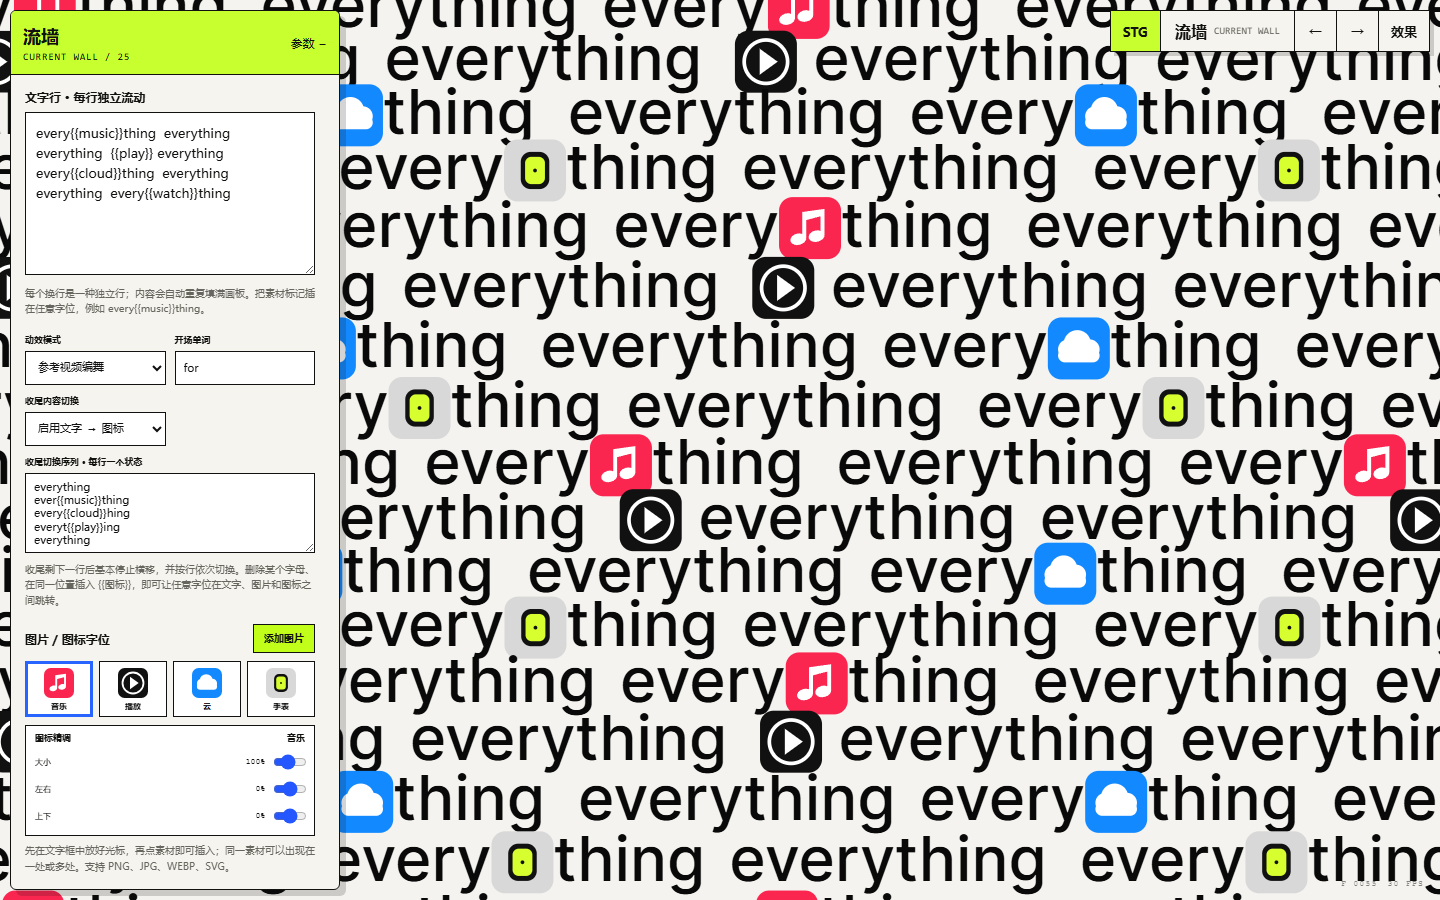
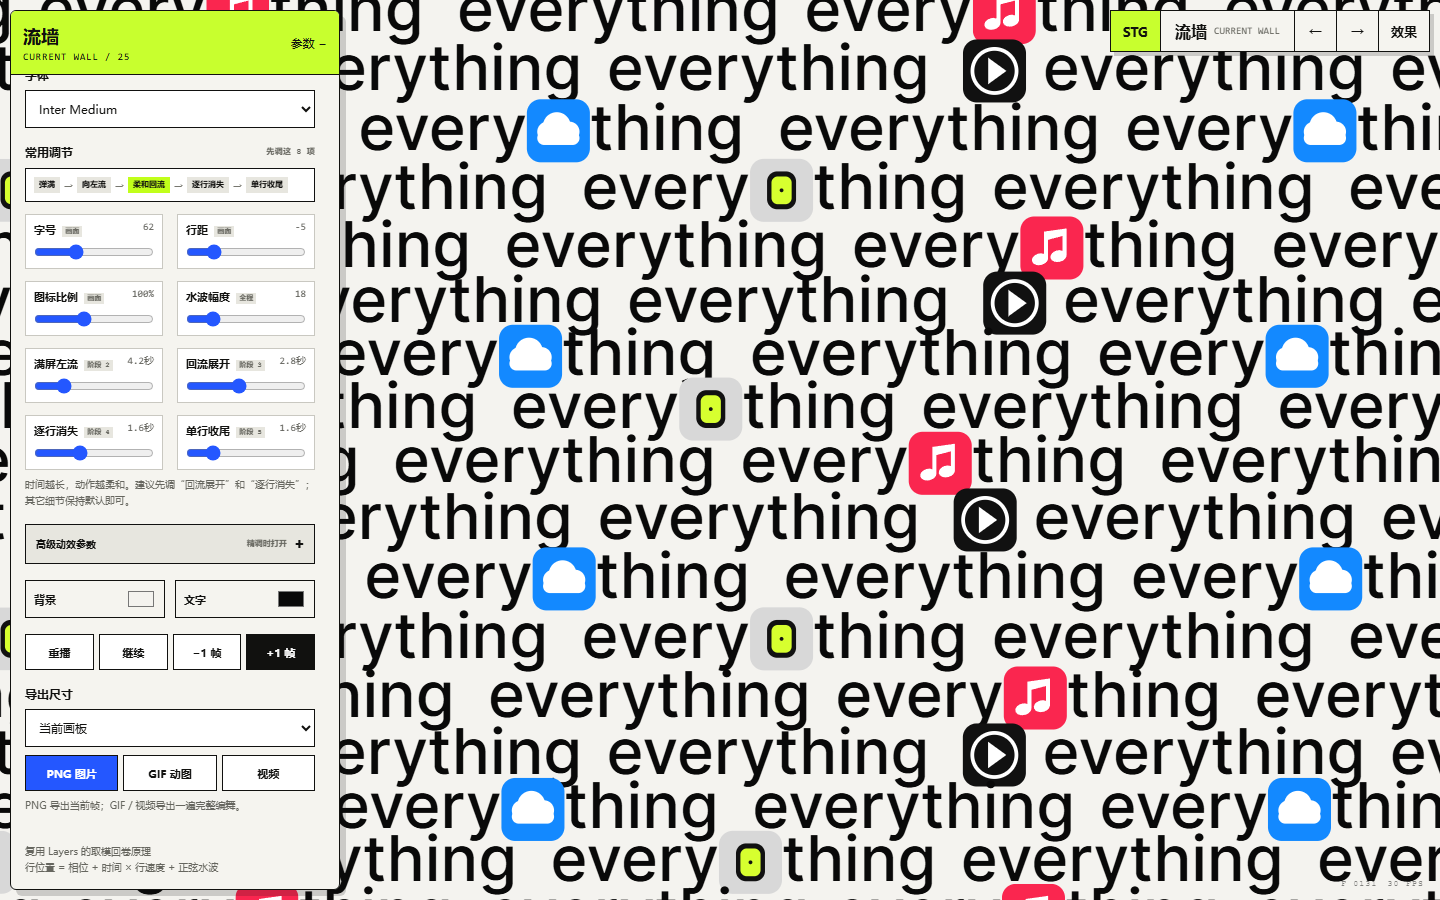
Simplify controls and smooth Current Wall retreat

diff --git a/site/currentwall.html b/site/currentwall.html
@@ -81,10 +81,13 @@ everything</textarea>
         <p class="hint">先在文字框中放好光标，再点素材即可插入；同一素材可以出现在一处或多处。支持 PNG、JPG、WEBP、SVG。</p>
       </section>
 
-      <section>
-        <p class="section-label">每行流向与相位</p>
-        <div class="row-flow-list" id="rowFlowList"></div>
-      </section>
+      <details class="advanced-controls row-advanced">
+        <summary><span>每行独立方向与速度</span><small>高级</small></summary>
+        <div class="advanced-body">
+          <p class="hint advanced-hint">只有需要单独改变某一行的方向、速度或起始位置时才调整这里。</p>
+          <div class="row-flow-list" id="rowFlowList"></div>
+        </div>
+      </details>
 
       <section class="font-picker">
         <label class="section-label" for="fontFamily">字体</label>
@@ -119,75 +122,93 @@ everything</textarea>
         </select>
       </section>
 
-      <section class="controls-grid">
-        <label>字号 <output id="fontSizeOut">62</output>
+      <section class="motion-quick">
+        <div class="section-heading">
+          <p class="section-label">常用调节</p>
+          <small class="section-note">先调这 8 项</small>
+        </div>
+        <div class="motion-map" aria-label="动效阶段">
+          <span>弹满</span><i>→</i><span>向左流</span><i>→</i><span>柔和回流</span><i>→</i><span>逐行消失</span><i>→</i><span>单行收尾</span>
+        </div>
+        <div class="controls-grid quick-grid">
+        <label>字号 <small class="stage-tag">画面</small><output id="fontSizeOut">62</output>
           <input id="fontSize" type="range" min="24" max="140" value="62">
         </label>
-        <label>行距 <output id="lineGapOut">-5</output>
+        <label>行距 <small class="stage-tag">画面</small><output id="lineGapOut">-5</output>
           <input id="lineGap" type="range" min="-25" max="80" value="-5">
         </label>
-        <label>整体速度 <output id="speedOut">1.00×</output>
-          <input id="speed" type="range" min="20" max="220" value="100">
-        </label>
-        <label>素材比例 <output id="assetScaleOut">100%</output>
+        <label>图标比例 <small class="stage-tag">画面</small><output id="assetScaleOut">100%</output>
           <input id="assetScale" type="range" min="45" max="180" value="100">
         </label>
-        <label>水波幅度 <output id="waveOut">18</output>
+        <label>水波幅度 <small class="stage-tag">全程</small><output id="waveOut">18</output>
           <input id="wave" type="range" min="0" max="100" value="18">
         </label>
-        <label>水波频率 <output id="waveRateOut">0.70</output>
-          <input id="waveRate" type="range" min="10" max="200" value="70">
-        </label>
-        <label>纵向漂移 <output id="verticalOut">10</output>
-          <input id="vertical" type="range" min="-100" max="100" value="10">
-        </label>
-        <label>字间填充 <output id="repeatGapOut">24</output>
-          <input id="repeatGap" type="range" min="0" max="160" value="24">
-        </label>
-        <label>循环时长 <output id="cycleDurationOut">6.2秒</output>
-          <input id="cycleDuration" type="range" min="4000" max="30000" step="100" value="6200">
-        </label>
-        <label>退回速度 <output id="reversePullOut">70%</output>
-          <input id="reversePull" type="range" min="0" max="180" value="70">
-        </label>
-        <label>扩散力度 <output id="burstOut">100%</output>
-          <input id="burst" type="range" min="50" max="180" value="100">
-        </label>
-      </section>
-
-      <section>
-        <p class="section-label">编舞速度 · 毫秒</p>
-        <div class="controls-grid timing-grid">
-          <label>向左预备 <output id="introLeftOut">700</output>
-            <input id="introLeft" type="range" min="200" max="1800" step="10" value="700">
-          </label>
-          <label>向右替换 <output id="introReturnOut">220</output>
-            <input id="introReturn" type="range" min="80" max="900" step="10" value="220">
-          </label>
-          <label>弹满全屏 <output id="popDurationOut">650</output>
-            <input id="popDuration" type="range" min="150" max="1800" step="10" value="650">
-          </label>
-          <label>满屏停留 <output id="fullDurationOut">4200</output>
+        <label>满屏左流 <small class="stage-tag">阶段 2</small><output id="fullDurationOut">4.2秒</output>
             <input id="fullDuration" type="range" min="600" max="18000" step="100" value="4200">
           </label>
-          <label>满屏后退回时长 <output id="retreatDurationOut">2800</output>
+          <label>回流展开 <small class="stage-tag">阶段 3</small><output id="retreatDurationOut">2.8秒</output>
             <input id="retreatDuration" type="range" min="400" max="6000" step="50" value="2800">
           </label>
-          <label>整体收束 <output id="exitDurationOut">480</output>
-            <input id="exitDuration" type="range" min="150" max="1800" step="10" value="480">
+          <label>逐行消失 <small class="stage-tag">阶段 4</small><output id="exitDurationOut">1.6秒</output>
+            <input id="exitDuration" type="range" min="500" max="3500" step="50" value="1600">
           </label>
-          <label>单行慢缩 <output id="finalDurationOut">1600</output>
+          <label>单行收尾 <small class="stage-tag">阶段 5</small><output id="finalDurationOut">1.6秒</output>
             <input id="finalDuration" type="range" min="600" max="6000" step="50" value="1600">
           </label>
+        </div>
+        <p class="hint">时间越长，动作越柔和。建议先调“回流展开”和“逐行消失”；其它细节保持默认即可。</p>
+      </section>
+
+      <details class="advanced-controls motion-advanced">
+        <summary><span>高级动效参数</span><small>精调时打开</small></summary>
+        <div class="advanced-body">
+          <p class="hint advanced-hint">这些参数用于复刻特殊节奏；不确定时保留默认值。</p>
+          <section class="controls-grid">
+            <label>字行流速 <output id="speedOut">1.00×</output>
+              <input id="speed" type="range" min="20" max="220" value="100">
+            </label>
+            <label>水波频率 <output id="waveRateOut">0.70</output>
+              <input id="waveRate" type="range" min="10" max="200" value="70">
+            </label>
+            <label>纵向漂移 <output id="verticalOut">10</output>
+              <input id="vertical" type="range" min="-100" max="100" value="10">
+            </label>
+            <label>字间填充 <output id="repeatGapOut">24</output>
+              <input id="repeatGap" type="range" min="0" max="160" value="24">
+            </label>
+            <label>循环总长 <output id="cycleDurationOut">6.2秒</output>
+              <input id="cycleDuration" type="range" min="4000" max="30000" step="100" value="6200">
+            </label>
+            <label>回流力度 <output id="reversePullOut">70%</output>
+              <input id="reversePull" type="range" min="0" max="180" value="70">
+            </label>
+            <label>弹屏力度 <output id="burstOut">100%</output>
+              <input id="burst" type="range" min="50" max="180" value="100">
+            </label>
+          </section>
+          <section>
+            <p class="section-label">阶段细节 · 毫秒</p>
+            <div class="controls-grid timing-grid">
+              <label>向左预备 <output id="introLeftOut">700</output>
+                <input id="introLeft" type="range" min="200" max="1800" step="10" value="700">
+              </label>
+              <label>向右替换 <output id="introReturnOut">220</output>
+                <input id="introReturn" type="range" min="80" max="900" step="10" value="220">
+              </label>
+              <label>弹满全屏 <output id="popDurationOut">650</output>
+                <input id="popDuration" type="range" min="150" max="1800" step="10" value="650">
+              </label>
           <label>开始切换 <output id="swapMomentOut">8%</output>
             <input id="swapMoment" type="range" min="0" max="80" step="1" value="8">
           </label>
           <label>切换间隔 <output id="swapIntervalOut">200ms</output>
             <input id="swapInterval" type="range" min="80" max="1000" step="20" value="200">
           </label>
+            </div>
+          </section>
+          <p class="hint">循环总长不变时，阶段数值用于重新分配一轮中的节奏。</p>
         </div>
-        <p class="hint">整体循环时长不变；调整这些数值会重新分配每个阶段在一轮中的快慢。满屏后退回时长控制中心向外传递的总时间，退回速度用于进一步加速或减速。</p>
-      </section>
+      </details>
 
       <section class="color-row">
         <label>背景<input id="backgroundColor" type="color" value="#f4f3ef"></label>

diff --git a/site/currentwall.js b/site/currentwall.js
@@ -263,6 +263,10 @@
     const x = clamp01(value);
     return x * x * (3 - 2 * x);
   };
+  const smoother = (value) => {
+    const x = clamp01(value);
+    return x * x * x * (x * (x * 6 - 15) + 10);
+  };
   const easeOut = (value) => 1 - Math.pow(1 - clamp01(value), 3);
   const rangeProgress = (value, from, to) => clamp01((value - from) / (to - from));
 
@@ -450,8 +454,8 @@
       let rowAlpha = laneDistance <= revealLimit ? 1 : 0;
       if (choreography && localTime >= timing.fullEnd && localTime < timing.exitEnd && laneIndex !== 0) {
         const inwardOrder = (halfLanes - laneDistance) / Math.max(1, halfLanes);
-        const disappearAt = .44 + inwardOrder * .43 + (laneIndex > 0 ? .012 : 0);
-        rowAlpha *= 1 - smooth(rangeProgress(exitProgress, disappearAt, disappearAt + .055));
+        const disappearAt = .48 + inwardOrder * .32 + (laneIndex > 0 ? .014 : 0);
+        rowAlpha *= 1 - smoother(rangeProgress(exitProgress, disappearAt, Math.min(.99, disappearAt + .2)));
       }
       if (rowAlpha <= .001 || wallAlpha <= .001) continue;
 
@@ -463,15 +467,17 @@
       const globalLeftPull = choreography ? localWidth * .23 * smooth(rangeProgress(localTime, timing.returnEnd, timing.fullEnd)) : 0;
       let leadLeftTravel = 0;
       if (choreography && localTime >= timing.popEnd) {
-        const retreatSpeed = Number(inputs.reversePull.value) / 100;
-        const retreatSeconds = Number(inputs.retreatDuration.value) / 1000 / Math.max(.05, retreatSpeed);
-        const retreatProgress = retreatSpeed > 0 ? clamp01((localTime - timing.popEnd) / retreatSeconds) : 0;
+        const retreatForce = Number(inputs.reversePull.value) / 100;
+        const retreatSeconds = Number(inputs.retreatDuration.value) / 1000;
+        const retreatEnd = Math.min(timing.fullEnd, timing.popEnd + retreatSeconds);
+        const retreatClock = Math.min(localTime, timing.fullEnd);
+        const retreatProgress = retreatForce > 0 ? smoother(rangeProgress(retreatClock, timing.popEnd, retreatEnd)) : 0;
         const distanceRatio = laneDistance / Math.max(1, halfLanes);
         const centerWeight = Math.exp(-(laneIndex * laneIndex) / 4.2);
-        const centerLead = easeOut(rangeProgress(retreatProgress, 0, .2));
-        const followDelay = .08 + distanceRatio * .42;
-        const wallFollow = smooth(rangeProgress(retreatProgress, followDelay, followDelay + .35));
-        leadLeftTravel = localWidth * (.1 * centerWeight * centerLead + .18 * wallFollow);
+        const centerLead = smoother(rangeProgress(retreatProgress, 0, .24));
+        const followDelay = .08 + distanceRatio * .38;
+        const wallFollow = smoother(rangeProgress(retreatProgress, followDelay, followDelay + .42));
+        leadLeftTravel = localWidth * retreatForce * (.08 * centerWeight * centerLead + .16 * wallFollow);
       }
 
       if (finalStage) {
@@ -483,17 +489,33 @@
       let groupRight = 0;
       let centerLeftPush = 0;
       if (choreography && localTime >= timing.fullEnd) {
+        const distanceRatio = laneDistance / Math.max(1, halfLanes);
         const centerWeight = Math.exp(-(laneIndex * laneIndex) / 2.7);
-        const leftImpulse = exitProgress < .16
-          ? smooth(exitProgress / .16)
-          : 1 - smooth(rangeProgress(exitProgress, .16, .34));
-        centerLeftPush = localWidth * .085 * centerWeight * leftImpulse;
-        const followDelay = .09 + laneDistance / Math.max(1, halfLanes) * .23;
-        const follow = easeOut(rangeProgress(exitProgress, followDelay, Math.min(.96, followDelay + .58)));
-        groupRight = localWidth * .58 * follow;
+        const followDelay = distanceRatio * .16;
+        const flowProgress = rangeProgress(exitProgress, followDelay, Math.min(.99, followDelay + .82));
+        const gather = smoother(rangeProgress(flowProgress, 0, .28))
+          * (1 - smoother(rangeProgress(flowProgress, .28, .56)));
+        const release = smoother(rangeProgress(flowProgress, .22, 1));
+        centerLeftPush = localWidth * (.012 + .018 * centerWeight) * gather;
+        groupRight = localWidth * .34 * release;
       }
       const shift = signedTravel + setting.phase / 100 * layout.width + xWave + globalLeftPull + leadLeftTravel + centerLeftPush - groupRight - wallShiftX;
-      drawRepeatedLine(context, layout, y, localWidth, inputs.foreground.value, shift, rowAlpha * wallAlpha);
+      if (choreography && localTime >= timing.fullEnd && laneIndex === 0) {
+        const centeredAnchor = localWidth / 2 - layout.width / 2;
+        const entrySignedTravel = setting.direction === 0 ? 0 : (setting.direction < 0 ? timing.fullEnd * velocity : -timing.fullEnd * velocity);
+        const entryXWave = Math.sin(timing.fullEnd * waveRate * .92) * waveAmp;
+        const entryLeadLeftTravel = leadLeftTravel / Math.max(1, localWidth) * w;
+        const entryShift = entrySignedTravel + setting.phase / 100 * layout.width + entryXWave + w * .23 + entryLeadLeftTravel;
+        const entryCenteredAnchor = w / 2 - layout.width / 2;
+        const entryRepeatedAnchor = -mod(entryShift, layout.width) - layout.width;
+        const entryApproachAnchor = entryRepeatedAnchor + Math.floor((entryCenteredAnchor - entryRepeatedAnchor) / layout.width) * layout.width;
+        const entryOffset = (entryApproachAnchor - entryCenteredAnchor) * localWidth / w;
+        const settle = smoother(rangeProgress(exitProgress, .22, 1));
+        const anchorX = centeredAnchor + entryOffset * (1 - settle) - centerLeftPush;
+        drawAnchoredLine(context, layout, y, localWidth, inputs.foreground.value, anchorX, rowAlpha * wallAlpha);
+      } else {
+        drawRepeatedLine(context, layout, y, localWidth, inputs.foreground.value, shift, rowAlpha * wallAlpha);
+      }
     }
     context.restore();
   }
@@ -559,10 +581,10 @@
       introLeftOut: inputs.introLeft.value,
       introReturnOut: inputs.introReturn.value,
       popDurationOut: inputs.popDuration.value,
-      fullDurationOut: inputs.fullDuration.value,
-      retreatDurationOut: inputs.retreatDuration.value,
-      exitDurationOut: inputs.exitDuration.value,
-      finalDurationOut: inputs.finalDuration.value,
+      fullDurationOut: `${(Number(inputs.fullDuration.value) / 1000).toFixed(1)}秒`,
+      retreatDurationOut: `${(Number(inputs.retreatDuration.value) / 1000).toFixed(1)}秒`,
+      exitDurationOut: `${(Number(inputs.exitDuration.value) / 1000).toFixed(1)}秒`,
+      finalDurationOut: `${(Number(inputs.finalDuration.value) / 1000).toFixed(1)}秒`,
       swapMomentOut: `${inputs.swapMoment.value}%`,
       swapIntervalOut: `${inputs.swapInterval.value}ms`
     };

diff --git a/site/currentwall.css b/site/currentwall.css
@@ -43,6 +43,85 @@
 
 .section-heading .section-label { margin: 0; }
 
+.section-note {
+  color: #66665f;
+  font: 700 8px/1 "Courier New", monospace;
+  letter-spacing: .04em;
+}
+
+.motion-map {
+  display: flex;
+  align-items: center;
+  gap: 4px;
+  margin: 0 0 12px;
+  padding: 8px;
+  overflow-x: auto;
+  border: 1px solid #111;
+  background: #fff;
+  white-space: nowrap;
+  scrollbar-width: none;
+}
+
+.motion-map::-webkit-scrollbar { display: none; }
+.motion-map span {
+  padding: 4px 5px;
+  background: #e7e6df;
+  font: 700 8px/1 "Courier New", monospace;
+}
+.motion-map span:nth-of-type(3) { background: #c1ff1a; }
+.motion-map i { color: #77776f; font: 400 9px/1 sans-serif; }
+
+.quick-grid label {
+  padding: 7px 8px 8px;
+  border: 1px solid #c9c8c1;
+  background: #fff;
+}
+
+.quick-grid input { display: block; }
+.stage-tag {
+  display: inline-block;
+  margin-left: 3px;
+  padding: 2px 3px;
+  background: #e7e6df;
+  color: #66665f;
+  font: 700 7px/1 "Courier New", monospace;
+  vertical-align: 1px;
+}
+
+.advanced-controls {
+  margin: 0 0 16px;
+  border: 1px solid #111;
+  background: #e7e6df;
+}
+
+.advanced-controls > summary {
+  min-height: 38px;
+  display: flex;
+  align-items: center;
+  justify-content: space-between;
+  gap: 8px;
+  padding: 8px 10px;
+  list-style: none;
+  cursor: pointer;
+  user-select: none;
+  font-size: 10px;
+  font-weight: 800;
+}
+
+.advanced-controls > summary::-webkit-details-marker { display: none; }
+.advanced-controls > summary::after { content: "+"; font: 800 14px/1 sans-serif; }
+.advanced-controls[open] > summary::after { content: "−"; }
+.advanced-controls > summary small {
+  margin-left: auto;
+  color: #66665f;
+  font: 700 8px/1 "Courier New", monospace;
+}
+.advanced-controls > summary:active { transform: scale(.985); }
+.advanced-body { padding: 0 10px 10px; }
+.advanced-hint { margin: 0 0 10px; }
+.advanced-body section { margin-bottom: 14px; }
+.row-advanced { background: #f4f3ef; }
+
 .scene-grid {
   display: grid;
   grid-template-columns: 1fr 1fr;
